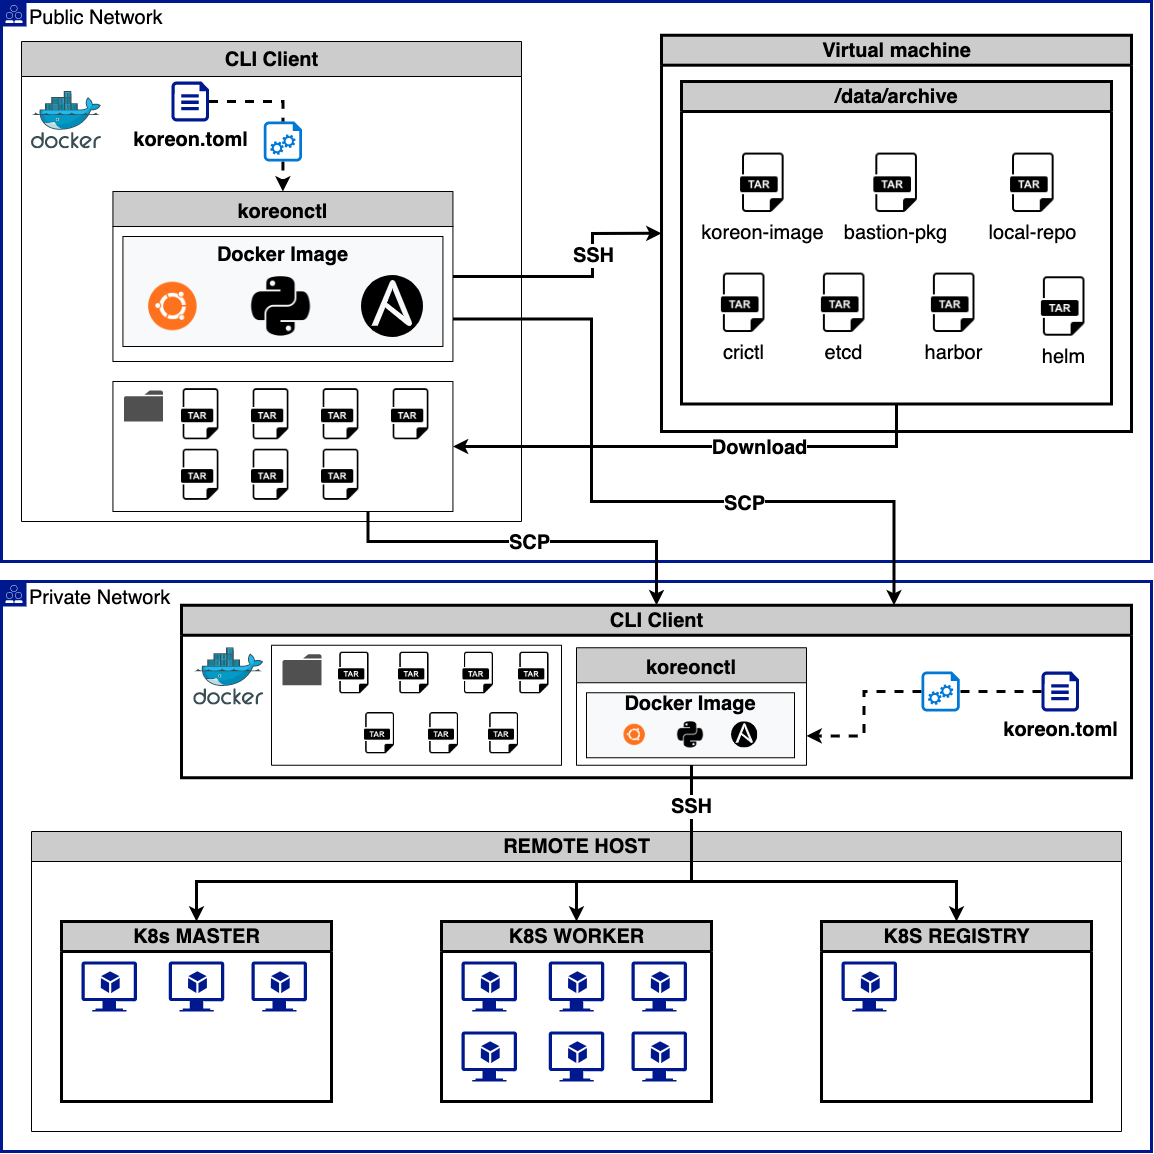
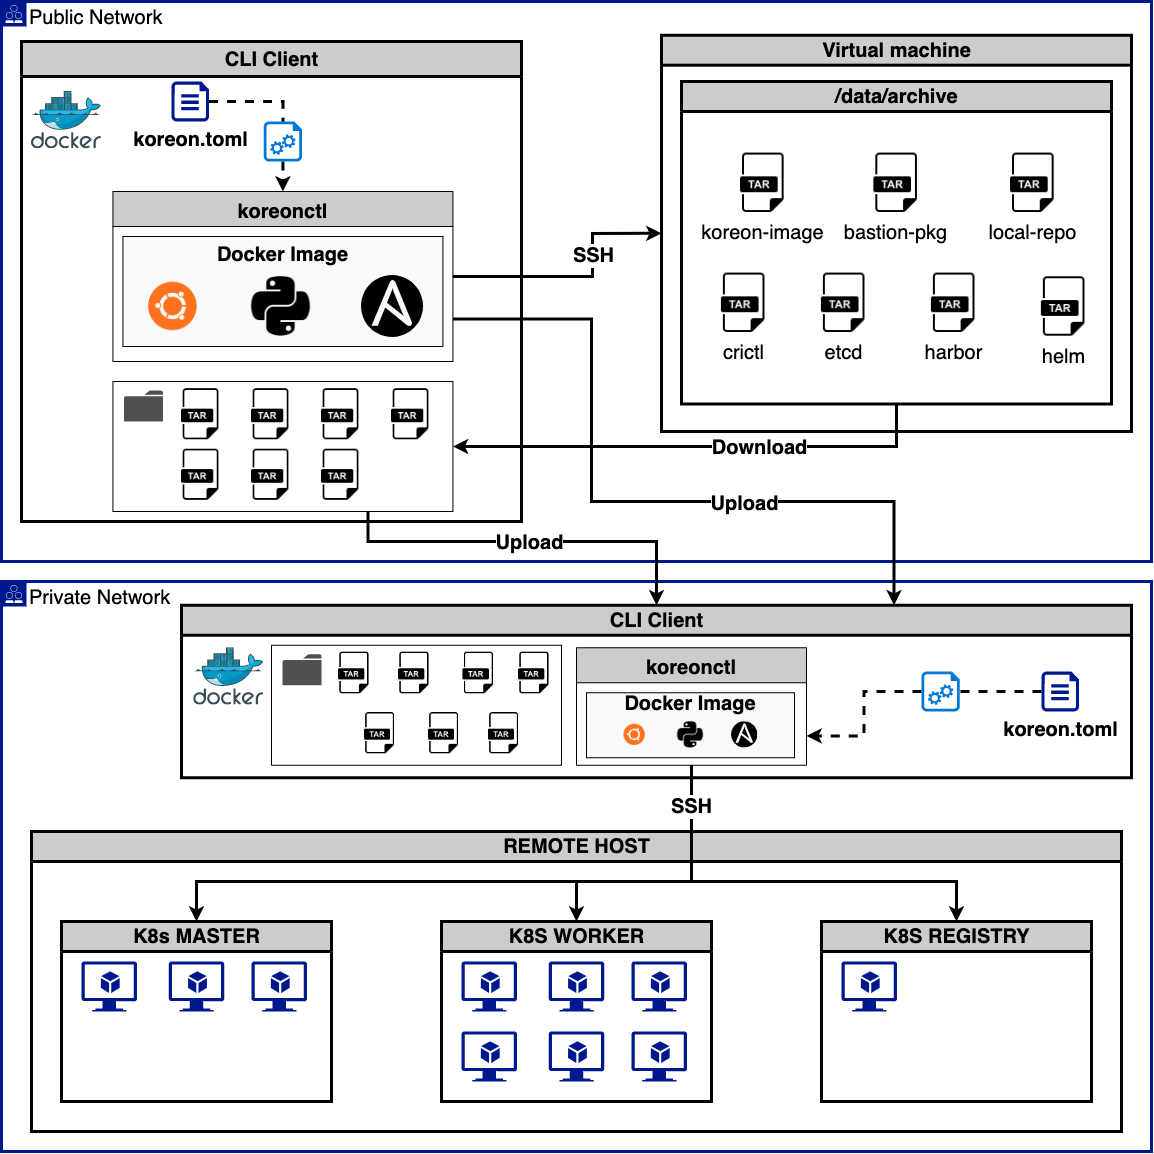
add docs air_gap_prepair_install.md

Changed region(s): [[0.0312, 0.7175, 0.9671, 0.7487], [0.4367, 0.4367, 0.4991, 0.4991], [0.6239, 0.4055, 0.6551, 0.4679]]

diff --git a/docs/install/docs/air_gap_prepair_install.md b/docs/install/docs/air_gap_prepair_install.md
@@ -1,8 +1,8 @@
-# **Kore-On**
+# Kore-on
 
-## **구성도**
+## **Prepare-airgap**
 
-![online_install_archtecture](./assets/online_install_architecture.png)
+![prepare-airgap](./assets/prepare-airgap.png)
 
 ## **요구사항**
 
@@ -14,19 +14,21 @@
 ### **CLI client**
 
 - CLI client에는 Docker가 설치되어있어야 합니다.
-- CLI client에서 target node에 ssh 접근이 가능해야 합니다.
+- CLI client에서 Virtual machine에 ssh 접근이 가능해야 합니다.
 - CLI client의 root 계정에서 koreonctl 실행을 권장합니다.
 
-### **target node**
+## **Public network CLI client**
 
-- controlplane node의 제한은 1 ~ 7대이며 홀수로 구성해야 합니다.
-
-## **온라인 설치**
-
-???+ quote
-    koreonctl을 통해 클러스터 구성을 진행합니다.
-
-    아래 샘플에서는 설치 될 타켓 노드를 master 노드 1대 와 worker 노드 2대의 설정으로 진행합니다.
+???+ tip
+    - [SSH KEY PATH]
+        - 설치 될 클러스터의 SSH 접근 key값을 설정합니다
+        - 이 때 PATH 값은 절대 경로여야합니다.
+    - [USERNAME]
+        - 설치 될 클러스터 노드의 SSH 노드의 접속 user를 설정합니다
+        - 모든 노드의 user명이 같아야합니다.
+    - 사설 레지스트리
+        - 유저 : admin
+        - 암호 : Ent!Admin432!
 
 ???+ note annotate "docker install"
 
@@ -63,7 +65,7 @@
     koreonctl init
     ```
 
-5. koreon.toml 파일을 클러스터 구성에 맞게 수정 합니다
+5. koreon.toml 파일을 수정 합니다.
 
     ??? example annotate "예제 파일 입니다."
         ```toml
@@ -154,13 +156,7 @@
         ## - haproxy-install: used internal load-balancer (default: true)
         ## - lb-ip: Enter the IP address when using a load balancer (default: master[0] ip address)
         ## - lb-port: Enter the port when using a load balancer (default: "6443")
-
-        #############################
-        ########### change ############
-        ip = ["x.x.x.x","x.x.x.x"]
-        ########### change ############
-        #############################
-
+        # ip = ["x.x.x.x","x.x.x.x"]
         #private-ip = ["x.x.x.x","x.x.x.x","x.x.x.x"]
         #isolated = true
         #haproxy-install = true
@@ -173,13 +169,7 @@
         ## - private-ip: K8s work nodes private ip address.
         ##               If you use the same IP address, you can skip it.
         ## Optional
-
-        #############################
-        ########### change ############
-        ip = ["x.x.x.x","x.x.x.x","x.x.x.x"]
-        ########### change ############
-        #############################
-
+        #ip = ["x.x.x.x","x.x.x.x","x.x.x.x"]
         #private-ip = ["x.x.x.x", "x.x.x.x"]
 
         [private-registry]
@@ -251,41 +241,31 @@
         ## -
         #k8s-version = "v1.21"
         #registry-version = "v2.6"
-        #registry-ip = "x.x.x.x"
+
+        #############################
+        ########### change ############
+        registry-ip = "[virtual machine ip]"
+        ########### change ############
+        #############################
         ```
 
     ```toml
-    [node-pool.node]
-    # 하단의 해당하는 부분만 변경
-    ip = ["x.x.x.x","x.x.x.x"]
-
-    [node-pool.master]
-    # 하단의 해당하는 부분만 변경
-    ip = ["x.x.x.x"]
+    [prepare-airgap]
+    registry-ip = "[virtual machine ip]"
     ```
 
-6. 클러스터 설치 시작
+6. 사전준비 파일들을 VM에 다운로드 합니다.
 
-    ??? tip
-        - [SSH KEY PATH]
-            - 설치 될 클러스터의 SSH 접근 key값을 설정합니다
-            - 이 때 PATH 값은 절대 경로여야합니다.
-        - [USERNAME]
-            - 설치 될 클러스터 노드의 SSH 노드의 접속 user를 설정합니다
-            - 모든 노드의 user명이 같아야합니다.
+    !!! info annotate "사설 레지스트리 유저와 암호가 필요합니다."
 
     ```bash
-    korectl create -p [SSH KEY PATH] -u [USERNAME]
+    koreonctl prepare-airgap -p [SSH KEY PATH] -u [USERNAME]
     ```
 
-## **검증**
+7. VM에 있는 사전준비 파일들을 public network CLI client로 다운로드 합니다.
 
-> control plane node의 root 계정에서 kubetnetes CLI를 실행해야 합니다.
+    !!! info annotate "사전준비 파일들은 VM의 /data/archive에 저장되어 있습니다."
 
-controlplane node에서 관리자 계정이 아닌 일반 사용자가 Kubernetes CLI를 사용하기를 원하면 아래 명령어를 사용해야 합니다.
-
-```bash
-mkdir -p $HOME/.kube
-sudo cp -i /etc/kubernetes/admin.conf $HOME/.kube/config
-sudo chown $(id -u):$(id -g) $HOME/.kube/config
-```
+    ```bash
+    koreonctl prepare-airgap download-archive -p [SSH KEY PATH] -u [USERNAME]
+    ```

diff --git a/docs/install/docs/air_gap_install.md b/docs/install/docs/air_gap_install.md
@@ -1,5 +1,25 @@
-# **폐쇄망 설치**
+# **Kore-on**
 
 ## **구성도**
 
 ![airgap_install_archtecture](./assets/airgap_install_architecture.png)
+
+## **요구사항**
+
+- docker v19.03.15 이상
+- Ubuntu 18.04, 20.04
+- CentOS/RHEL 7, 8
+- SSH KEY
+
+## **Air-gap 설치**
+
+> 폐쇄망 설치 전 사전 준비가 있습니다.
+>
+> koreonctl을 통해 클러스터 구성을 진행합니다.
+>
+> 환경구성 예시
+> >
+> > - online node (prepare-airgap 용도, 인터넷환경)
+> > - bastion (폐쇄망)
+> > - harbor (내부 이미지 레지, 폐쇄망)
+> > - air-gap[1:2] (마스터1 워커2, 폐쇄망)
